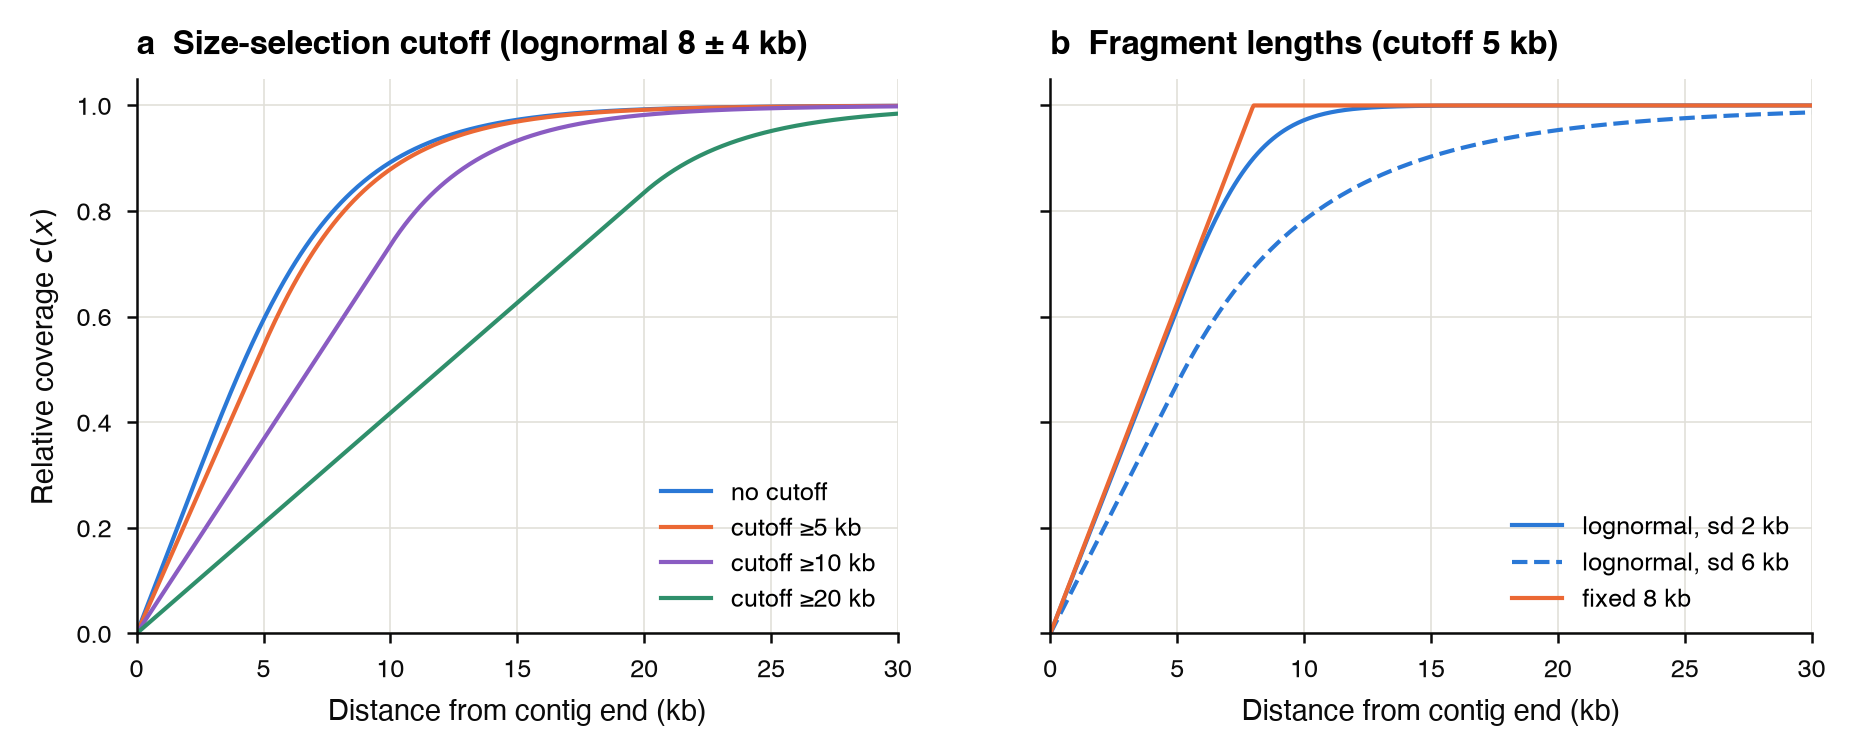
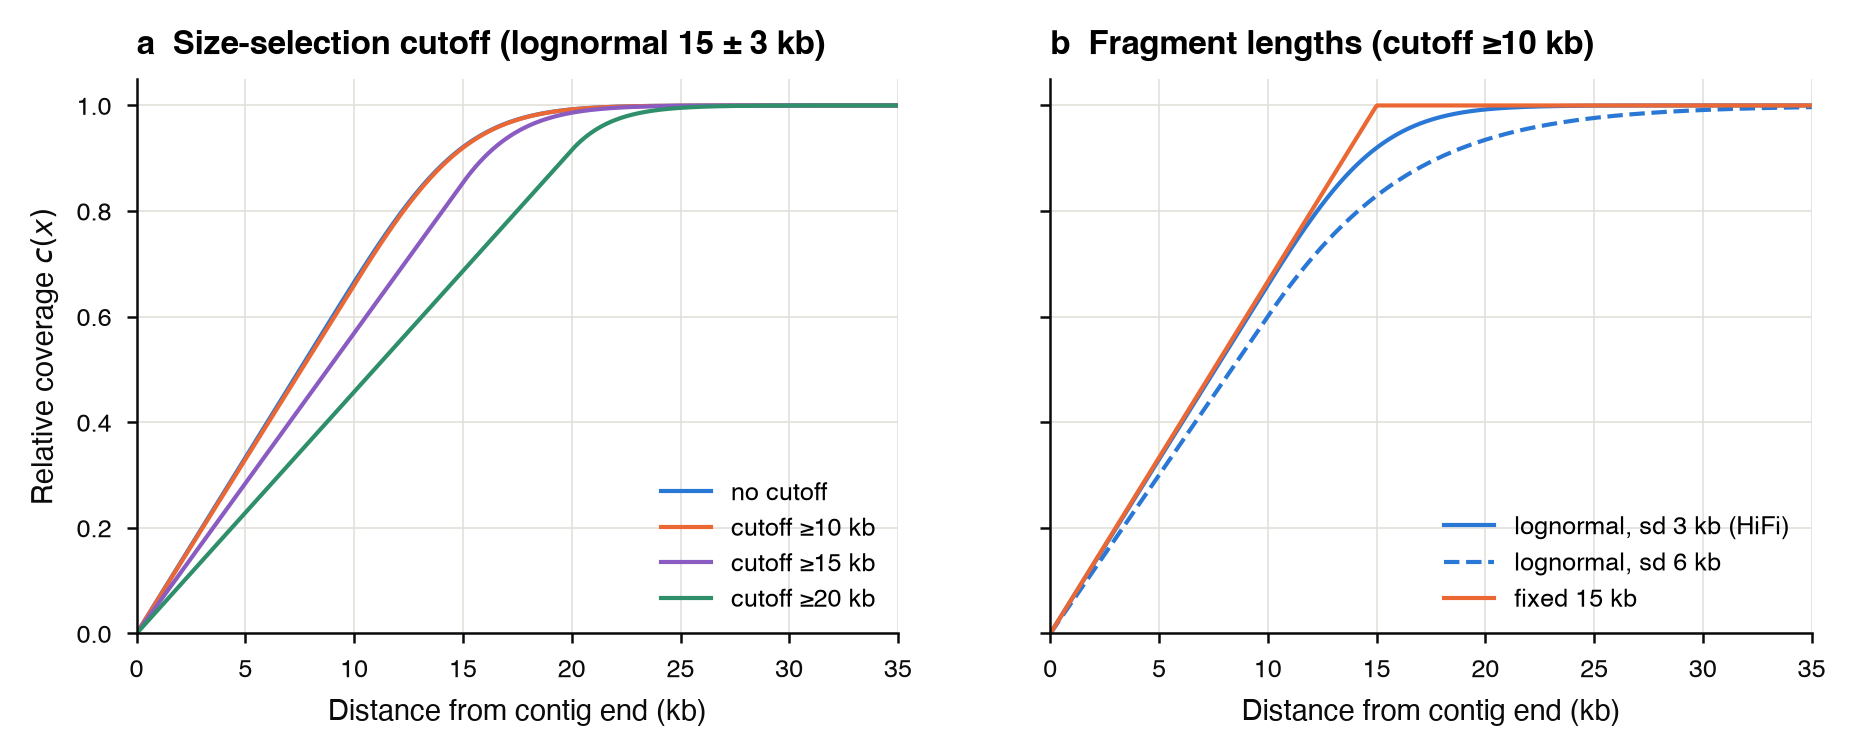
docs: rebuild coverage-decay figures around a PacBio HiFi library
Both static figures and the interactive explorer defaults now use
lognormal fragment lengths with mean 15 kb and sd 3 kb under a strict
10 kb lower-bound size-selection cutoff (fragments shorter than the
cutoff are discarded), reflecting a HiFi protocol. Page text updates the
takeaways for the new parameters, including that the curve is exactly
linear below the cutoff distance and that a 10 kb cutoff removes only
~3% of a 15 kb library while cutoffs at or above the mean bite hard.
The cutoff slider is relabelled 'Lower-bound cutoff (discard shorter)'.

Claude-Session: https://claude.ai/code/session_01KFmp1HkfbvA3PqVqryhb4Q

diff --git a/docs/javascripts/coverage-decay.js b/docs/javascripts/coverage-decay.js
@@ -223,12 +223,14 @@
 
   // --- controls ----------------------------------------------------------
 
+  // Defaults mirror the PacBio HiFi-like library used in the static figures:
+  // lognormal 15 +/- 3 kb with a strict 10 kb lower-bound cutoff.
   var SLIDERS = [
     { key: 'depth', label: 'Interior depth', min: 5, max: 100, step: 1, value: 30, unit: '×' },
-    { key: 'mean', label: 'Mean fragment length', min: 1000, max: 30000, step: 500, value: 8000, unit: 'kb', kb: true },
-    { key: 'sd', label: 'Fragment length sd', min: 500, max: 15000, step: 250, value: 4000, unit: 'kb', kb: true },
-    { key: 'cutoff', label: 'Size-selection cutoff', min: 0, max: 25000, step: 500, value: 5000, unit: 'kb', kb: true },
-    { key: 'window', label: 'x-axis range', min: 10000, max: 100000, step: 5000, value: 30000, unit: 'kb', kb: true },
+    { key: 'mean', label: 'Mean fragment length', min: 1000, max: 30000, step: 500, value: 15000, unit: 'kb', kb: true },
+    { key: 'sd', label: 'Fragment length sd', min: 500, max: 15000, step: 250, value: 3000, unit: 'kb', kb: true },
+    { key: 'cutoff', label: 'Lower-bound cutoff (discard shorter)', min: 0, max: 25000, step: 500, value: 10000, unit: 'kb', kb: true },
+    { key: 'window', label: 'x-axis range', min: 10000, max: 100000, step: 5000, value: 35000, unit: 'kb', kb: true },
   ];
 
   function fmt(spec, value) {

diff --git a/src/teloclip/model/figures.py b/src/teloclip/model/figures.py
@@ -101,9 +101,11 @@ def plot_decay_families(out_path: str) -> None:
     """
     Plot analytic decay curves across cutoffs and length distributions.
 
-    Two panels: (a) a lognormal read-length profile under increasingly harsh
-    size-selection cutoffs, and (b) different fragment-length distributions
-    under one fixed cutoff, showing how distribution shape moves the decay.
+    Two panels around a PacBio HiFi-like library (lognormal, mean 15 kb,
+    sd 3 kb, strict 10 kb lower-bound size selection): (a) that profile under
+    increasingly harsh cutoffs — fragments below the cutoff are discarded —
+    and (b) different fragment-length distributions under the 10 kb cutoff,
+    showing how distribution shape moves the decay.
 
     Parameters
     ----------
@@ -112,8 +114,8 @@ def plot_decay_families(out_path: str) -> None:
     """
     import matplotlib.pyplot as plt
 
-    profile = LognormalLengths(mean=8000.0, sd=4000.0)
-    x = np.linspace(0.0, 30_000.0, 600)
+    profile = LognormalLengths(mean=15_000.0, sd=3000.0)
+    x = np.linspace(0.0, 35_000.0, 700)
     xk = x / 1000.0
 
     with nature_style():
@@ -123,7 +125,7 @@ def plot_decay_families(out_path: str) -> None:
 
         # Panel a: one distribution, one distinctly coloured curve per
         # cutoff, identified through the legend.
-        cutoffs = (0.0, 5000.0, 10_000.0, 20_000.0)
+        cutoffs = (0.0, 10_000.0, 15_000.0, 20_000.0)
         for cutoff, color in zip(cutoffs, CUTOFF_COLORS):
             c = expected_relative_coverage(x, profile, min_length=cutoff)
             label = 'no cutoff' if cutoff == 0 else f'cutoff ≥{cutoff / 1000:g} kb'
@@ -132,35 +134,35 @@ def plot_decay_families(out_path: str) -> None:
         ax_a.set_xlabel('Distance from contig end (kb)')
         ax_a.set_ylabel('Relative coverage $c(x)$')
         ax_a.set_title(
-            'a  Size-selection cutoff (lognormal 8 ± 4 kb)',
+            'a  Size-selection cutoff (lognormal 15 ± 3 kb)',
             loc='left',
             fontweight='bold',
         )
 
         # Panel b: one cutoff, distribution identity in the two categorical
         # hues plus line style, each directly labelled.
-        cutoff = 5000.0
+        cutoff = 10_000.0
         series = (
-            (LognormalLengths(mean=8000.0, sd=2000.0), BLUE, '-', 'lognormal, sd 2 kb'),
+            (profile, BLUE, '-', 'lognormal, sd 3 kb (HiFi)'),
             (
-                LognormalLengths(mean=8000.0, sd=6000.0),
+                LognormalLengths(mean=15_000.0, sd=6000.0),
                 BLUE,
                 '--',
                 'lognormal, sd 6 kb',
             ),
-            (FixedLength(8000.0), ORANGE, '-', 'fixed 8 kb'),
+            (FixedLength(15_000.0), ORANGE, '-', 'fixed 15 kb'),
         )
         for dist, color, style, label in series:
             c = expected_relative_coverage(x, dist, min_length=cutoff)
             ax_b.plot(xk, c, color=color, linestyle=style, label=label)
         ax_b.set_xlabel('Distance from contig end (kb)')
         ax_b.set_title(
-            'b  Fragment lengths (cutoff 5 kb)', loc='left', fontweight='bold'
+            'b  Fragment lengths (cutoff ≥10 kb)', loc='left', fontweight='bold'
         )
         ax_b.legend(loc='lower right')
 
         for ax in (ax_a, ax_b):
-            ax.set_xlim(0, 30)
+            ax.set_xlim(0, 35)
             ax.set_ylim(0, 1.05)
 
         fig.savefig(out_path)
@@ -190,9 +192,9 @@ def plot_decay_with_ci(
     """
     import matplotlib.pyplot as plt
 
-    profile = LognormalLengths(mean=8000.0, sd=4000.0)
-    cutoff = 2500.0
-    window = 30_000
+    profile = LognormalLengths(mean=15_000.0, sd=3000.0)
+    cutoff = 10_000.0
+    window = 35_000
     result = bootstrap_coverage(
         chrom_length=1_000_000,
         depth=depth,

diff --git a/docs/guide/coverage-decay.md b/docs/guide/coverage-decay.md
@@ -77,23 +77,35 @@ curve near the terminus.
 
 ## What the curves look like
 
-![Two-panel figure of analytic coverage-decay curves. Panel a: relative coverage against distance from the contig end for a lognormal 8 kb read profile under size-selection cutoffs from none to 20 kb; harsher cutoffs push the decay region deeper into the contig. Panel b: the same curve for narrow and wide lognormal profiles and a fixed 8 kb fragment length at a 5 kb cutoff; wider length distributions stretch the decay further.](../images/coverage-decay-analytic.png)
+The figures below use a PacBio HiFi-like library: lognormal fragment lengths
+with mean 15 kb and sd 3 kb, and a strict lower-bound size-selection cutoff
+of 10 kb (every fragment shorter than the cutoff is discarded).
 
-Two things to take away:
+![Two-panel figure of analytic coverage-decay curves. Panel a: relative coverage against distance from the contig end for a lognormal read profile with mean 15 kb and sd 3 kb under lower-bound size-selection cutoffs of none, 10, 15 and 20 kb; harsher cutoffs push the decay region deeper into the contig. Panel b: the same curve at the 10 kb cutoff for the HiFi profile, a wider sd 6 kb lognormal, and a fixed 15 kb fragment length; wider length distributions stretch the decay further.](../images/coverage-decay-analytic.png)
+
+Three things to take away:
 
 - **The decay region is about one (truncated) mean fragment length deep.**
-  With an 8 kb read profile, coverage within ~5 kb of the terminus is well
-  below half the interior depth.
-- **Size selection is the aggressor.** Raising the cutoff from nothing to
-  20 kb pushes the depleted region from ~8 kb to beyond 20 kb — exactly the
-  fragments that would have covered the terminus are the ones discarded.
+  With the 15 ± 3 kb HiFi profile, coverage within 5 kb of the terminus is
+  only about a third of the interior depth, and interior depth is not
+  reached until ~20 kb in.
+- **Below the cutoff distance the curve is an exact straight line.** Every
+  surviving fragment is at least 10 kb, so for \(x < L_{\min}\) the number
+  of placements that cover \(x\) grows linearly with \(x\) regardless of the
+  length distribution — the distribution only shapes the shoulder beyond the
+  cutoff.
+- **Cutoffs bite when they reach the typical length.** The 10 kb HiFi cutoff
+  discards only ~3% of a 15 ± 3 kb library, so its curve sits almost on the
+  no-cutoff curve; pushing the cutoff to 15–20 kb (at or above the mean)
+  discards most fragments and drags the depleted region far deeper.
 
 Simulation confirms the analytic curve. Each simulation fragments a 1 Mb
-molecule with lognormal fragment lengths (mean 8 kb, sd 4 kb), applies a
-2.5 kb size-selection cutoff at 30× interior depth, and tallies terminal
-coverage; the band spans the central 95% of 200 independent runs:
+molecule with lognormal fragment lengths (mean 15 kb, sd 3 kb), discards
+fragments below the 10 kb lower-bound cutoff, places the survivors at 30×
+interior depth, and tallies terminal coverage; the band spans the central
+95% of 200 independent runs:
 
-![Simulated terminal coverage for lognormal fragment lengths with mean 8 kb and standard deviation 4 kb under a 2.5 kb size-selection cutoff at thirty-fold interior depth, with a 95 percent bootstrap band from 200 simulations, overlaid with the analytic expectation, which tracks the simulated mean closely across the whole decay region.](../images/coverage-decay-bootstrap.png)
+![Simulated terminal coverage for lognormal fragment lengths with mean 15 kb and standard deviation 3 kb under a strict 10 kb lower-bound size-selection cutoff at thirty-fold interior depth, with a 95 percent bootstrap band from 200 simulations, overlaid with the analytic expectation, which tracks the simulated mean closely across the whole decay region.](../images/coverage-decay-bootstrap.png)
 
 !!! note "Reproducing these figures"
 
@@ -119,8 +131,8 @@ browser; the readout reports expected absolute coverage near the terminus.
 
 - **Overhang reads are the survivors of this decay.** A read can only carry
   an overhang if it covers the outermost base, where coverage is at its
-  minimum — at 30× interior depth with an 8 kb profile and a 5 kb cutoff,
-  expect only a handful of reads to span any given terminus. Zero overhangs
+  minimum — at 30× interior depth with the 15 ± 3 kb HiFi profile and a
+  10 kb cutoff, expect only a handful of reads to span any given terminus. Zero overhangs
   at one contig end is often just sampling, not a structural problem.
 - **Depth for telomere recovery is set by \(D \cdot c(0^+)\), not \(D\).**
   If you want, say, ≥5 candidate overhang reads per end, work back from the
